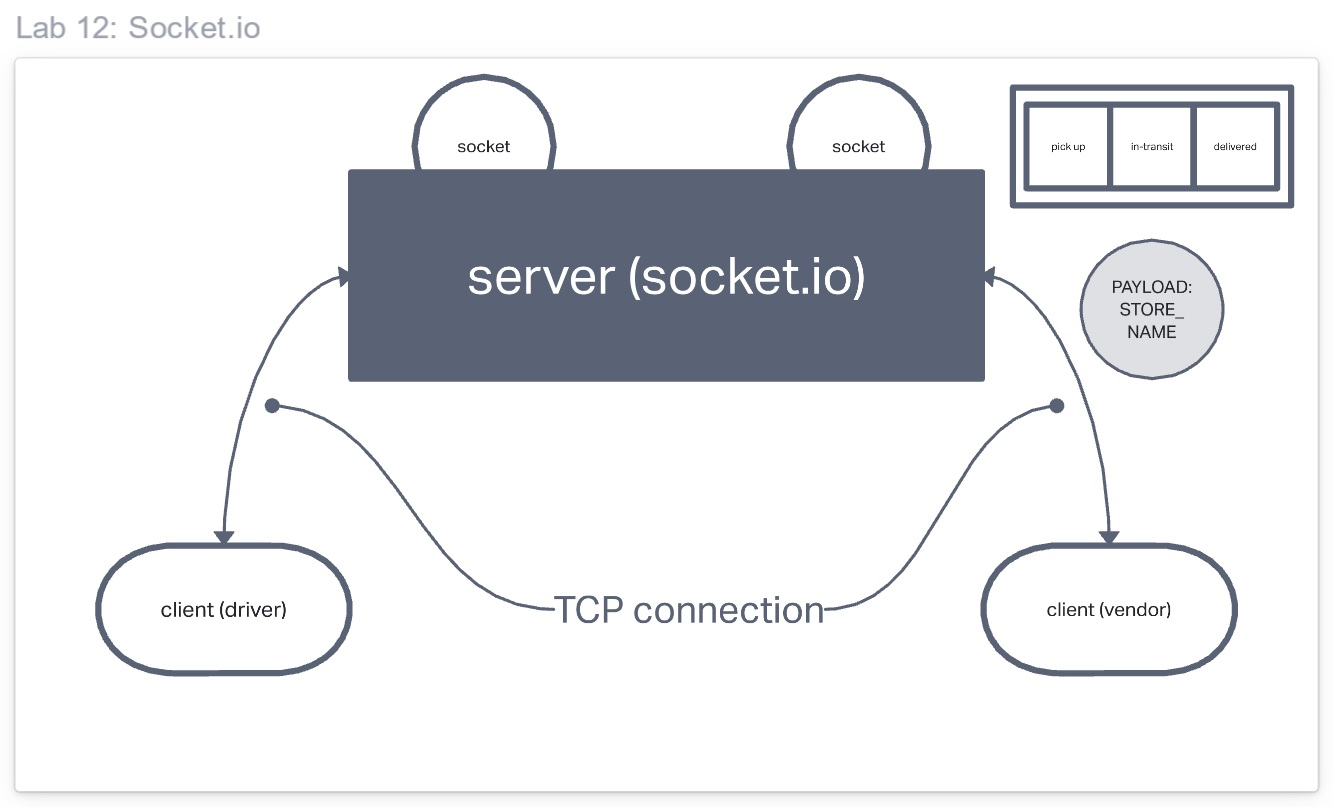
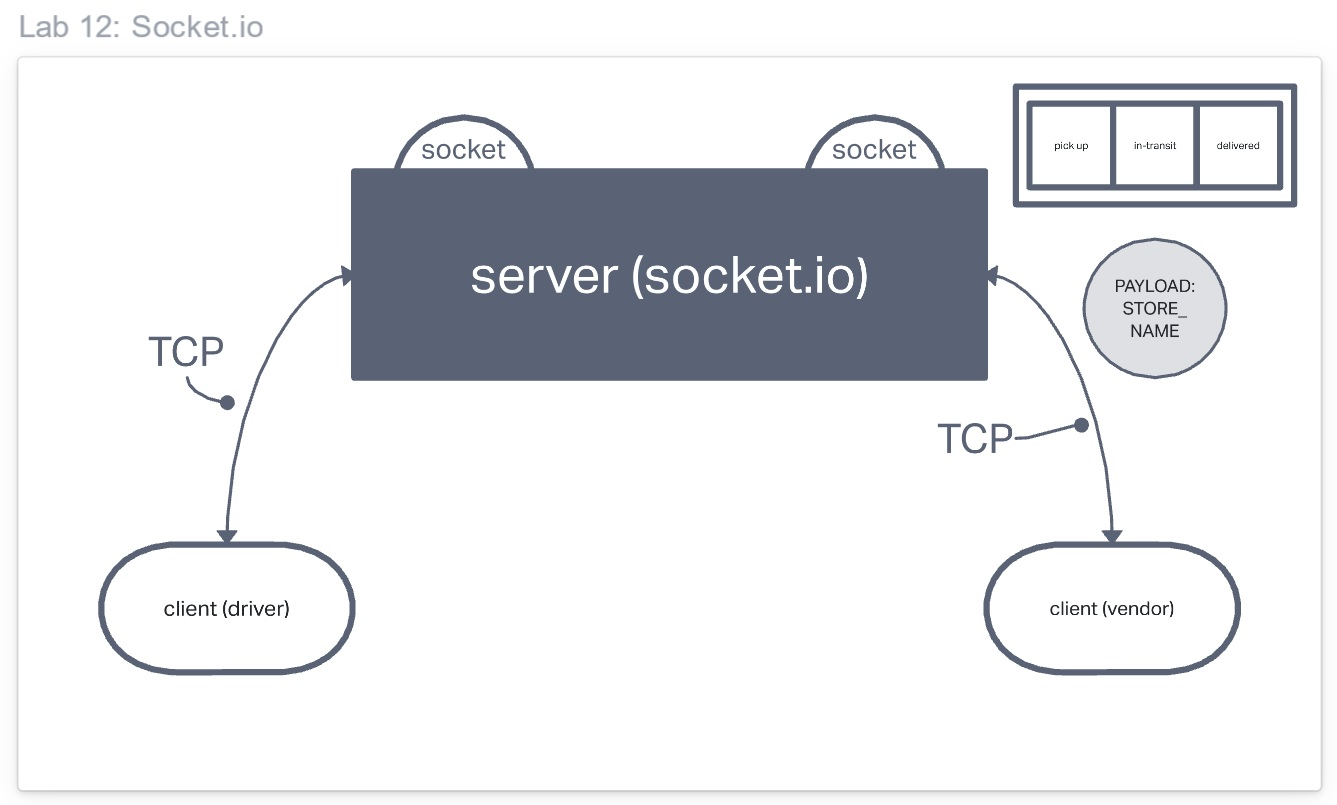
uml updated for phase 02

diff --git a/README.md b/README.md
@@ -219,4 +219,4 @@ If your server, vendor and driver apps are all running according to the lab inst
 
 ## Phase 02:UML
 
-![UML lab12](./img/401UML_lab12.jpg)
+![uml](./img/401UML_lab12.jpg)
